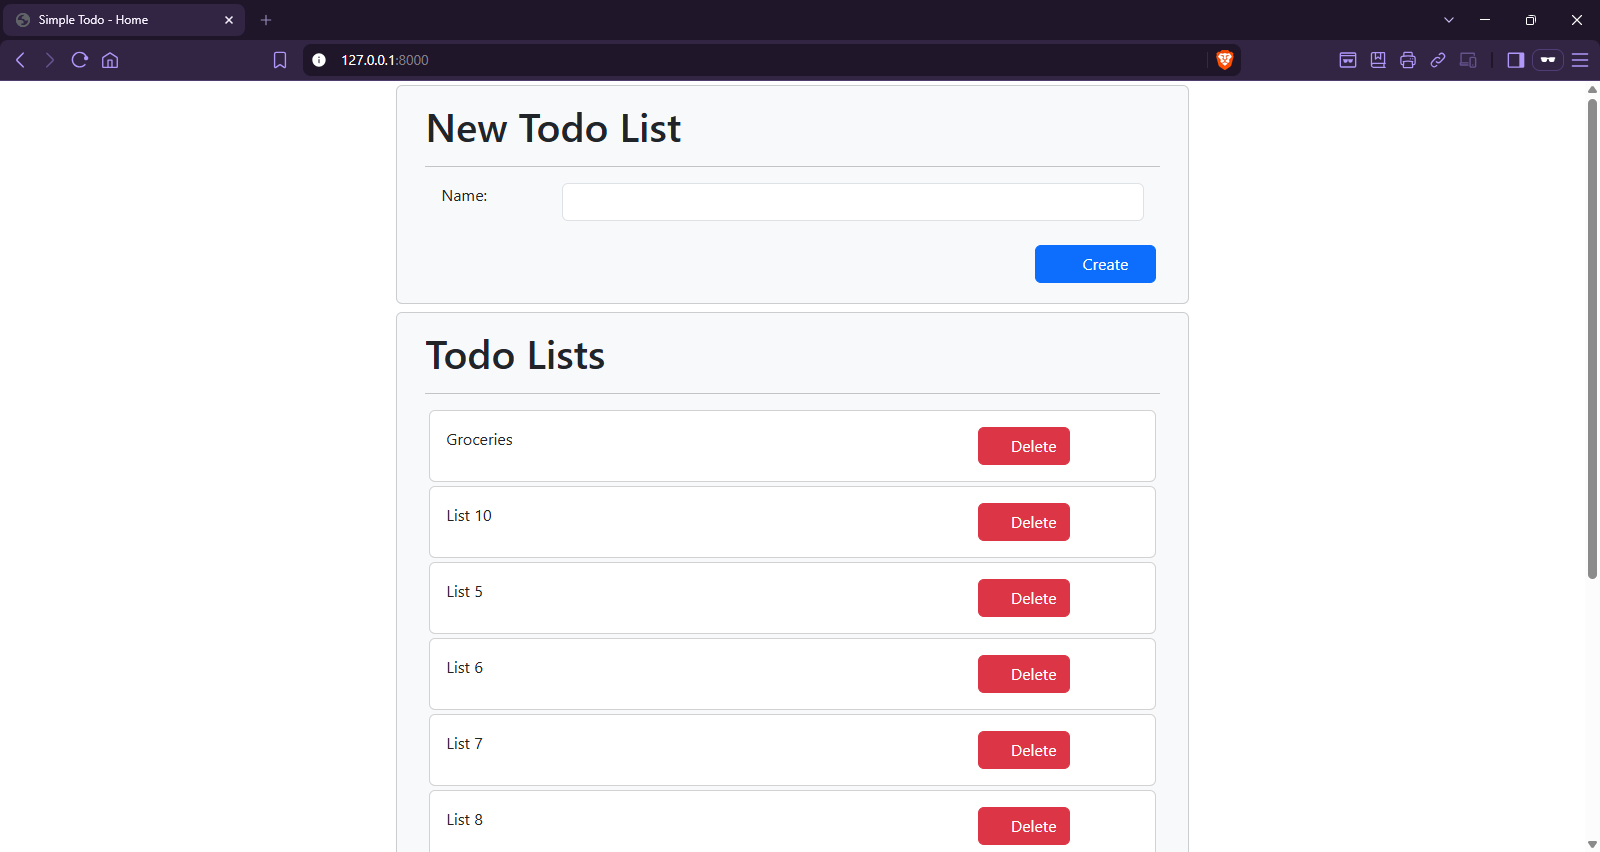
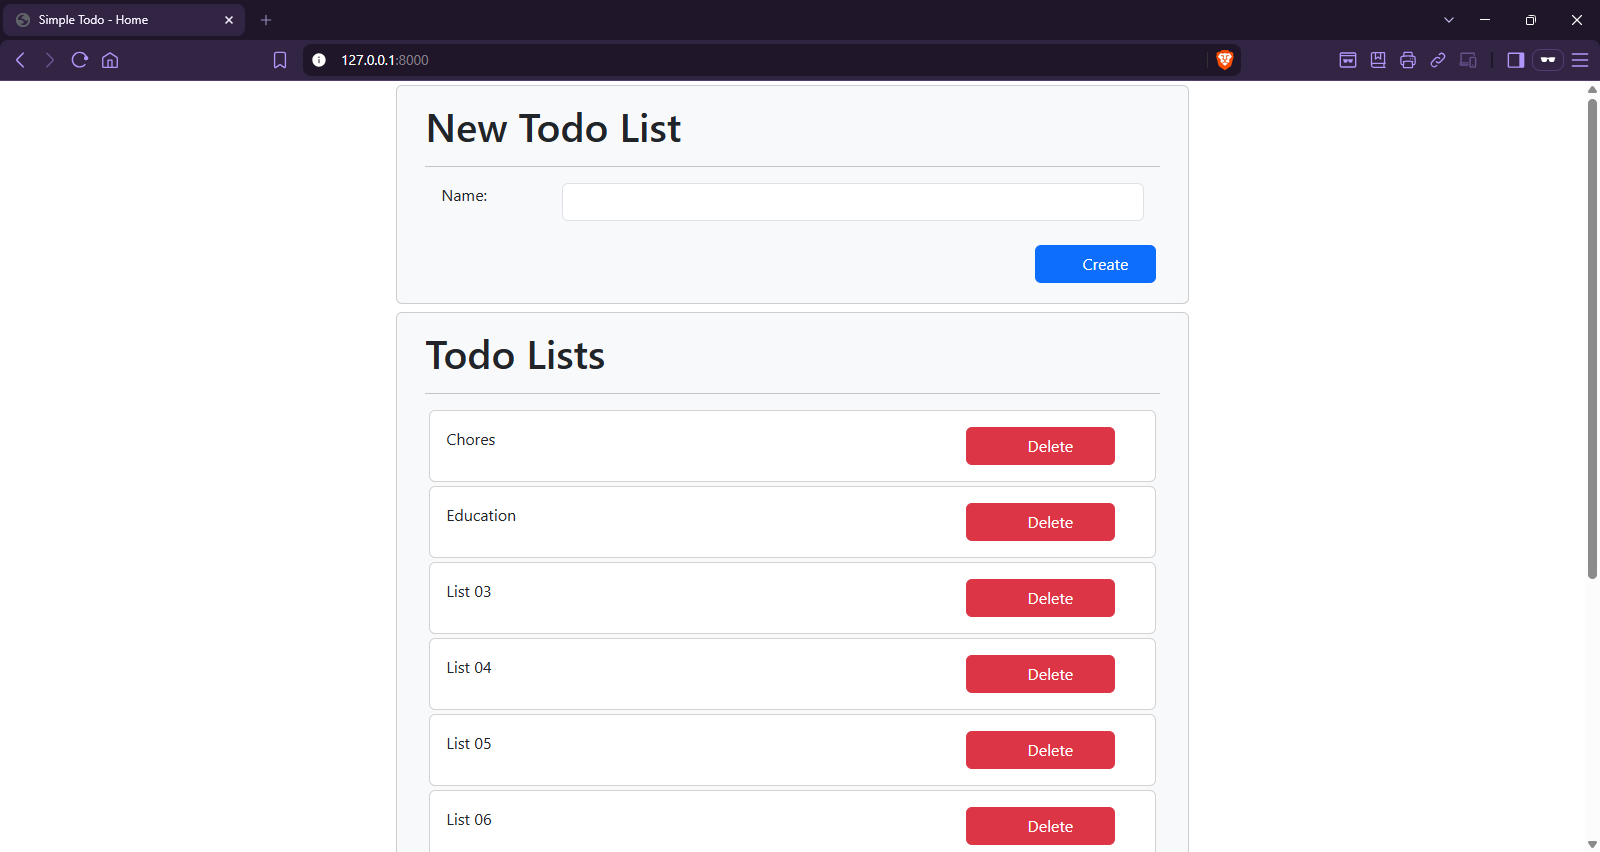
Adjust delete button on todo lists view.

diff --git a/html/views/todo-lists-view.php b/html/views/todo-lists-view.php
@@ -16,10 +16,10 @@
                     <div class="card-body row">
                         <a class="col-9 nav-link" href="/todo-lists/<?php echo $todoList['id']; ?>/">
                             <?php echo $todoList['name']; ?></a>
-                        <form class="col-3" hx-post="/todo-lists/<?php echo $todoList['id']; ?>/delete/"
+                        <form class="col-3 row" hx-post="/todo-lists/<?php echo $todoList['id']; ?>/delete/"
                             hx-indicator="#todoListDeleteBtn<?php $todoList['id']; ?>">
                             <input type="hidden" name="csrfToken" value="<?php echo csrfToken(); ?>"/>
-                            <button class="btn btn-danger">
+                            <button class="col btn btn-danger">
                                 <span class="spinner-border spinner-border-sm htmx-indicator"
                                     id="todoListDeleteBtn<?php $todoList['id']; ?>">
                                     <span class="visually-hidden">Loading...</span>

diff --git a/lessons/05-todo_lists.md b/lessons/05-todo_lists.md
@@ -261,10 +261,10 @@ Notice that we limit the number of todo lists returned to 11 and use a query par
                     <div class="card-body row">
                         <a class="col-9 nav-link" href="/todo-lists/<?php echo $todoList['id']; ?>/">
                             <?php echo $todoList['name']; ?></a>
-                        <form class="col-3" hx-post="/todo-lists/<?php echo $todoList['id']; ?>/delete/"
+                        <form class="col-3 row" hx-post="/todo-lists/<?php echo $todoList['id']; ?>/delete/"
                             hx-indicator="#todoListDeleteBtn<?php $todoList['id']; ?>">
                             <input type="hidden" name="csrfToken" value="<?php echo csrfToken(); ?>"/>
-                            <button class="btn btn-danger">
+                            <button class="col btn btn-danger">
                                 <span class="spinner-border spinner-border-sm htmx-indicator"
                                     id="todoListDeleteBtn<?php $todoList['id']; ?>">
                                     <span class="visually-hidden">Loading...</span>
